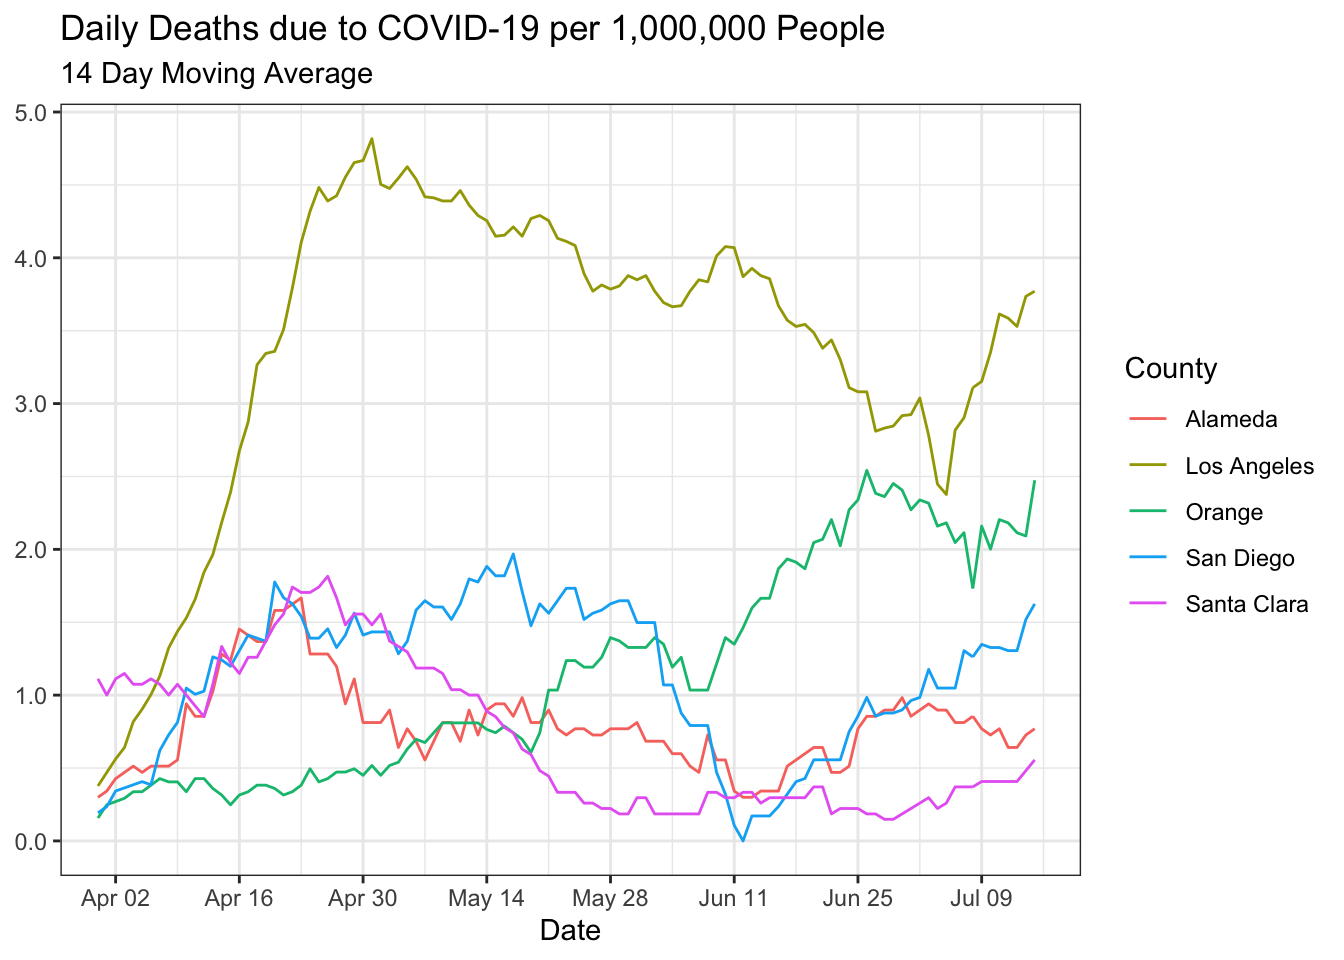
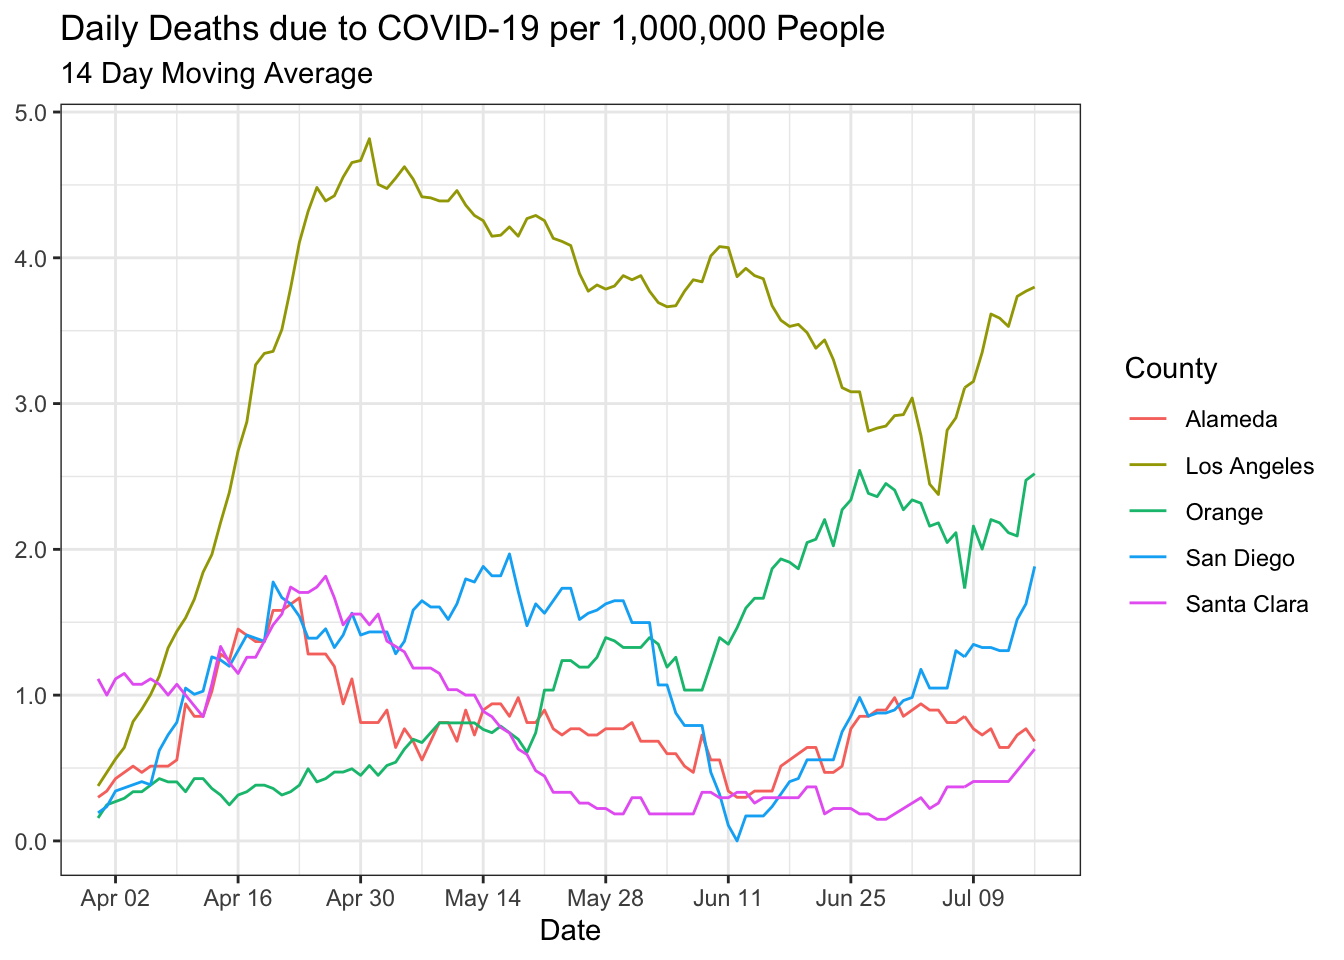
New Data + ICU Occupancy

diff --git a/docs/index.html b/docs/index.html
@@ -315,7 +315,7 @@ $(document).ready(function () {
 
 <p>
 <button type="button" class="btn btn-default btn-workflowr btn-workflowr-report" data-toggle="collapse" data-target="#workflowr-report">
-<span class="glyphicon glyphicon-list" aria-hidden="true"></span> workflowr <span class="glyphicon glyphicon-ok text-success" aria-hidden="true"></span>
+<span class="glyphicon glyphicon-list" aria-hidden="true"></span> workflowr <span class="glyphicon glyphicon-exclamation-sign text-danger" aria-hidden="true"></span>
 </button>
 </p>
 <div id="workflowr-report" class="collapse">
@@ -324,7 +324,7 @@ $(document).ready(function () {
 <a data-toggle="tab" href="#summary">Summary</a>
 </li>
 <li>
-<a data-toggle="tab" href="#checks"> Checks <span class="glyphicon glyphicon-ok text-success" aria-hidden="true"></span> </a>
+<a data-toggle="tab" href="#checks"> Checks <span class="glyphicon glyphicon-exclamation-sign text-danger" aria-hidden="true"></span> </a>
 </li>
 <li>
 <a data-toggle="tab" href="#versions">Past versions</a>
@@ -333,10 +333,10 @@ $(document).ready(function () {
 <div class="tab-content">
 <div id="summary" class="tab-pane fade in active">
 <p>
-<strong>Last updated:</strong> 2020-07-16
+<strong>Last updated:</strong> 2020-07-17
 </p>
 <p>
-<strong>Checks:</strong> <span class="glyphicon glyphicon-ok text-success" aria-hidden="true"></span> 7 <span class="glyphicon glyphicon-exclamation-sign text-danger" aria-hidden="true"></span> 0
+<strong>Checks:</strong> <span class="glyphicon glyphicon-ok text-success" aria-hidden="true"></span> 6 <span class="glyphicon glyphicon-exclamation-sign text-danger" aria-hidden="true"></span> 1
 </p>
 <p>
 <strong>Knit directory:</strong> <code>uci_covid19_dashboard/</code> <span class="glyphicon glyphicon-question-sign" aria-hidden="true" title="This is the local directory in which the code in this file was executed."> </span>
@@ -352,12 +352,12 @@ This reproducible <a href="http://rmarkdown.rstudio.com">R Markdown</a> analysis
 <div class="panel panel-default">
 <div class="panel-heading">
 <p class="panel-title">
-<a data-toggle="collapse" data-parent="#workflowr-checks" href="#strongRMarkdownfilestronguptodate"> <span class="glyphicon glyphicon-ok text-success" aria-hidden="true"></span> <strong>R Markdown file:</strong> up-to-date </a>
+<a data-toggle="collapse" data-parent="#workflowr-checks" href="#strongRMarkdownfilestronguncommittedchanges"> <span class="glyphicon glyphicon-exclamation-sign text-danger" aria-hidden="true"></span> <strong>R Markdown file:</strong> uncommitted changes </a>
 </p>
 </div>
-<div id="strongRMarkdownfilestronguptodate" class="panel-collapse collapse">
+<div id="strongRMarkdownfilestronguncommittedchanges" class="panel-collapse collapse">
 <div class="panel-body">
-<p>Great! Since the R Markdown file has been committed to the Git repository, you know the exact version of the code that produced these results.</p>
+<p>The R Markdown file has unstaged changes. To know which version of the R Markdown file created these results, you’ll want to first commit it to the Git repo. If you’re still working on the analysis, you can ignore this warning. When you’re finished, you can run <code>wflow_publish</code> to commit the R Markdown file and build the HTML.</p>
 </div>
 </div>
 </div>
@@ -424,16 +424,16 @@ This reproducible <a href="http://rmarkdown.rstudio.com">R Markdown</a> analysis
 <div class="panel panel-default">
 <div class="panel-heading">
 <p class="panel-title">
-<a data-toggle="collapse" data-parent="#workflowr-checks" href="#strongRepositoryversionstrongahrefhttpsgithubcomdamonbayerucicovid19dashboardtreecc4c19406fccba01436342d7c29276b39ac62442targetblankcc4c194a"> <span class="glyphicon glyphicon-ok text-success" aria-hidden="true"></span> <strong>Repository version:</strong> <a href="https://github.com/damonbayer/uci_covid19_dashboard/tree/cc4c19406fccba01436342d7c29276b39ac62442" target="_blank">cc4c194</a> </a>
+<a data-toggle="collapse" data-parent="#workflowr-checks" href="#strongRepositoryversionstrongahrefhttpsgithubcomdamonbayerucicovid19dashboardtree65c719549d20245e7442b8e82113ba622c3922c7targetblank65c7195a"> <span class="glyphicon glyphicon-ok text-success" aria-hidden="true"></span> <strong>Repository version:</strong> <a href="https://github.com/damonbayer/uci_covid19_dashboard/tree/65c719549d20245e7442b8e82113ba622c3922c7" target="_blank">65c7195</a> </a>
 </p>
 </div>
[2 lines of base64/hex data omitted]
 <div class="panel-body">
 <p>
 Great! You are using Git for version control. Tracking code development and connecting the code version to the results is critical for reproducibility.
 </p>
 <p>
-The results in this page were generated with repository version <a href="https://github.com/damonbayer/uci_covid19_dashboard/tree/cc4c19406fccba01436342d7c29276b39ac62442" target="_blank">cc4c194</a>. See the <em>Past versions</em> tab to see a history of the changes made to the R Markdown and HTML files.
+The results in this page were generated with repository version <a href="https://github.com/damonbayer/uci_covid19_dashboard/tree/65c719549d20245e7442b8e82113ba622c3922c7" target="_blank">65c7195</a>. See the <em>Past versions</em> tab to see a history of the changes made to the R Markdown and HTML files.
 </p>
 <p>
 Note that you need to be careful to ensure that all relevant files for the analysis have been committed to Git prior to generating the results (you can use <code>wflow_publish</code> or <code>wflow_git_commit</code>). workflowr only checks the R Markdown file, but you know if there are other scripts or data files that it depends on. Below is the status of the Git repository when the results were generated:
@@ -444,8 +444,11 @@ Ignored files:
     Ignored:    .Rhistory
     Ignored:    .Rproj.user/
 
+Untracked files:
+    Untracked:  analysis/figure/
+
 Unstaged changes:
-    Modified:   .gitignore
+    Modified:   analysis/index.Rmd
 
 </code></pre>
 <p>
@@ -484,6 +487,23 @@ Message
 </tr>
 </thead>
 <tbody>
+<tr>
+<td>
+html
+</td>
+<td>
+<a href="https://rawcdn.githack.com/damonbayer/uci_covid19_dashboard/65c719549d20245e7442b8e82113ba622c3922c7/docs/index.html" target="_blank">65c7195</a>
+</td>
+<td>
+Damon Bayer
+</td>
+<td>
+2020-07-16
+</td>
+<td>
+theme change
+</td>
+</tr>
 <tr>
 <td>
 html
@@ -682,9 +702,122 @@ Damon Bayer
 </table>
 </div>
 </div>
+<pre><code>`summarise()` regrouping output by &#39;county&#39;, &#39;date&#39; (override with `.groups` argument)</code></pre>
+<p><img src="figure/index.Rmd/COVID%20ICU%20Occupancy-1.png" width="672" style="display: block; margin: auto;" /></p>
 <p><img src="figure/index.Rmd/Covid%20Hospitalizations-1.png" width="672" style="display: block; margin: auto;" /></p>
+<p>
+<button type="button" class="btn btn-default btn-xs btn-workflowr btn-workflowr-fig" data-toggle="collapse" data-target="#fig-no-spaces-Covid-Hospitalizations-1">
+Past versions of “Covid Hospitalizations-1.png”
+</button>
+</p>
+<div id="fig-no-spaces-Covid-Hospitalizations-1" class="collapse">
+<div class="table-responsive">
+<table class="table table-condensed table-hover">
+<thead>
+<tr>
+<th>
+Version
+</th>
+<th>
+Author
+</th>
+<th>
+Date
+</th>
+</tr>
+</thead>
+<tbody>
+<tr>
+<td>
+<a href="https://github.com/damonbayer/uci_covid19_dashboard/blob/c9cdb24fa962141e48dec64ab53db3b9d54652eb/docs/figure/index.Rmd/Covid Hospitalizations-1.png" target="_blank">c9cdb24</a>
+</td>
+<td>
+Damon Bayer
+</td>
+<td>
+2020-07-16
+</td>
+</tr>
+</tbody>
+</table>
+</div>
+</div>
 <p><img src="figure/index.Rmd/Covid%20Deaths-1.png" width="672" style="display: block; margin: auto;" /></p>
+<p>
+<button type="button" class="btn btn-default btn-xs btn-workflowr btn-workflowr-fig" data-toggle="collapse" data-target="#fig-no-spaces-Covid-Deaths-1">
+Past versions of “Covid Deaths-1.png”
+</button>
+</p>
+<div id="fig-no-spaces-Covid-Deaths-1" class="collapse">
+<div class="table-responsive">
+<table class="table table-condensed table-hover">
+<thead>
+<tr>
+<th>
+Version
+</th>
+<th>
+Author
+</th>
+<th>
+Date
+</th>
+</tr>
+</thead>
+<tbody>
+<tr>
+<td>
+<a href="https://github.com/damonbayer/uci_covid19_dashboard/blob/c9cdb24fa962141e48dec64ab53db3b9d54652eb/docs/figure/index.Rmd/Covid Deaths-1.png" target="_blank">c9cdb24</a>
+</td>
+<td>
+Damon Bayer
+</td>
+<td>
+2020-07-16
+</td>
+</tr>
+</tbody>
+</table>
+</div>
+</div>
 <p><img src="figure/index.Rmd/Covid%20Cases-1.png" width="672" style="display: block; margin: auto;" /></p>
+<p>
+<button type="button" class="btn btn-default btn-xs btn-workflowr btn-workflowr-fig" data-toggle="collapse" data-target="#fig-no-spaces-Covid-Cases-1">
+Past versions of “Covid Cases-1.png”
+</button>
+</p>
+<div id="fig-no-spaces-Covid-Cases-1" class="collapse">
+<div class="table-responsive">
+<table class="table table-condensed table-hover">
+<thead>
+<tr>
+<th>
+Version
+</th>
+<th>
+Author
+</th>
+<th>
+Date
+</th>
+</tr>
+</thead>
+<tbody>
+<tr>
+<td>
+<a href="https://github.com/damonbayer/uci_covid19_dashboard/blob/c9cdb24fa962141e48dec64ab53db3b9d54652eb/docs/figure/index.Rmd/Covid Cases-1.png" target="_blank">c9cdb24</a>
+</td>
+<td>
+Damon Bayer
+</td>
+<td>
+2020-07-16
+</td>
+</tr>
+</tbody>
+</table>
+</div>
+</div>
 <br>
 <p>
 <button type="button" class="btn btn-default btn-workflowr btn-workflowr-sessioninfo" data-toggle="collapse" data-target="#workflowr-sessioninfo" style="display: block;">
@@ -717,7 +850,6 @@ other attached packages:
 [15] purrr_0.3.4                readr_1.3.1               
 [17] tidyr_1.1.0                tibble_3.0.3              
 [19] ggplot2_3.3.2              tidyverse_1.3.0           
-[21] workflowr_1.6.2           
 
 loaded via a namespace (and not attached):
  [1] Rcpp_1.0.5       lattice_0.20-41  assertthat_0.2.1 rprojroot_1.3-2 
@@ -727,14 +859,14 @@ loaded via a namespace (and not attached):
 [17] whisker_0.4      blob_1.2.1       rmarkdown_2.3    labeling_0.3    
 [21] munsell_0.5.0    broom_0.7.0      compiler_4.0.2   httpuv_1.5.4    
 [25] modelr_0.1.8     xfun_0.15        pkgconfig_2.0.3  htmltools_0.5.0 
-[29] tidyselect_1.1.0 quadprog_1.5-8   fansi_0.4.1      crayon_1.3.4    
-[33] dbplyr_1.4.4     withr_2.2.0      later_1.1.0.1    Quandl_2.10.0   
-[37] grid_4.0.2       jsonlite_1.7.0   gtable_0.3.0     lifecycle_0.2.0 
-[41] git2r_0.27.1     magrittr_1.5     cli_2.0.2        stringi_1.4.6   
-[45] farver_2.0.3     fs_1.4.2         promises_1.1.1   xml2_1.3.2      
-[49] ellipsis_0.3.1   generics_0.0.2   vctrs_0.3.1      tools_4.0.2     
-[53] hms_0.5.3        yaml_2.2.1       colorspace_1.4-1 rvest_0.3.5     
-[57] knitr_1.29       haven_2.3.1     </code></pre>
+[29] tidyselect_1.1.0 workflowr_1.6.2  quadprog_1.5-8   fansi_0.4.1     
+[33] crayon_1.3.4     dbplyr_1.4.4     withr_2.2.0      later_1.1.0.1   
+[37] Quandl_2.10.0    grid_4.0.2       jsonlite_1.7.0   gtable_0.3.0    
+[41] lifecycle_0.2.0  git2r_0.27.1     magrittr_1.5     cli_2.0.2       
+[45] stringi_1.4.6    farver_2.0.3     fs_1.4.2         promises_1.1.1  
+[49] xml2_1.3.2       ellipsis_0.3.1   generics_0.0.2   vctrs_0.3.1     
+[53] tools_4.0.2      hms_0.5.3        yaml_2.2.1       colorspace_1.4-1
+[57] rvest_0.3.5      knitr_1.29       haven_2.3.1     </code></pre>
 </div>
 
 
